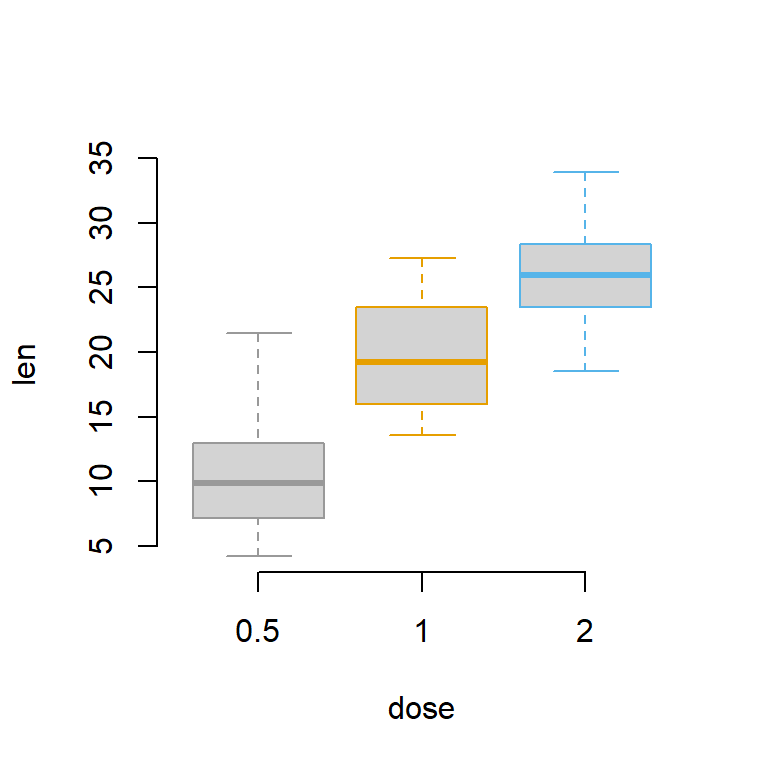
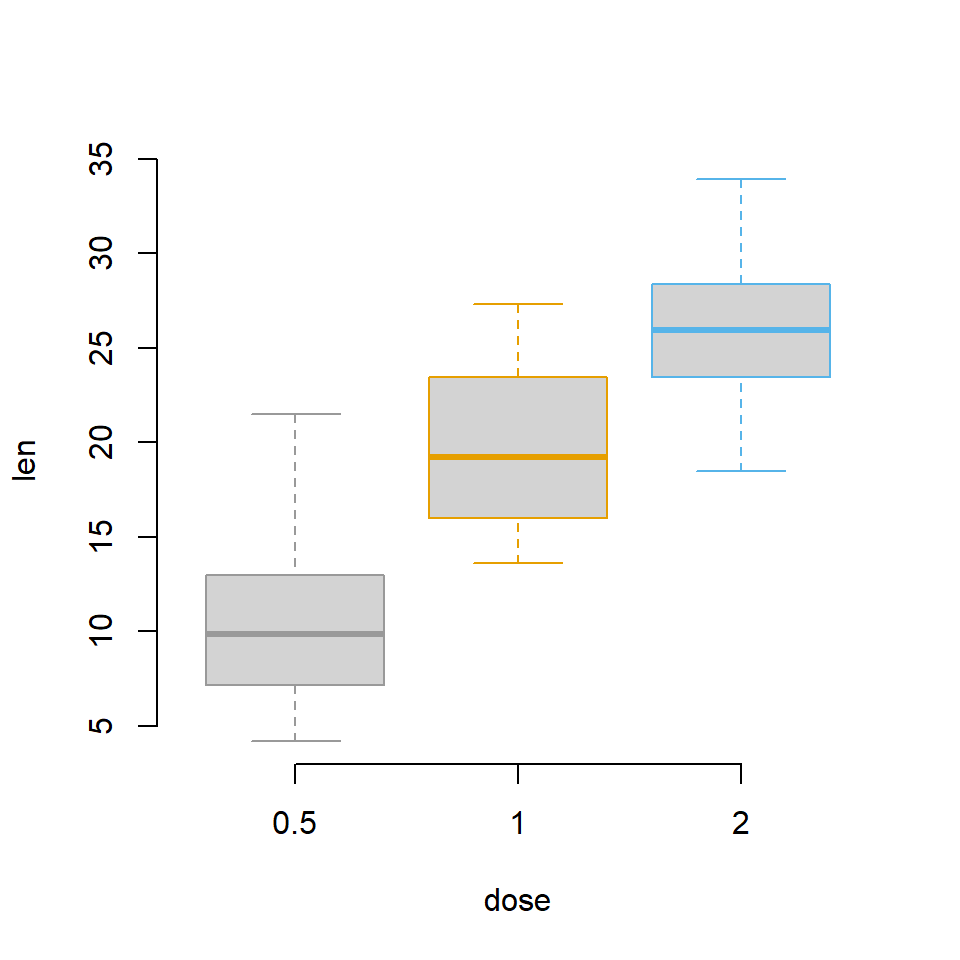
Updates.

diff --git a/docs/posts/2023-12-04-my-blog-post/index.html b/docs/posts/2023-12-04-my-blog-post/index.html
@@ -210,7 +210,7 @@ pre > code.sourceCode > span > a:first-child::before { text-decoration: underlin
 <div class="cell-output-display">
 <div class="quarto-figure quarto-figure-center">
 <figure class="figure">
-<p><img src="index_files/figure-html/unnamed-chunk-1-1.png" class="img-fluid figure-img" width="384"></p>
+<p><img src="index_files/figure-html/unnamed-chunk-1-1.png" class="img-fluid figure-img" width="480"></p>
 </figure>
 </div>
 </div>
@@ -237,7 +237,7 @@ pre > code.sourceCode > span > a:first-child::before { text-decoration: underlin
 <div class="cell-output-display">
 <div class="quarto-figure quarto-figure-center">
 <figure class="figure">
-<p><img src="index_files/figure-html/unnamed-chunk-2-1.png" class="img-fluid figure-img" width="384"></p>
+<p><img src="index_files/figure-html/unnamed-chunk-2-1.png" class="img-fluid figure-img" width="480"></p>
 </figure>
 </div>
 </div>

diff --git a/docs/blog.html b/docs/blog.html
@@ -212,7 +212,7 @@ Saïd Maanan
 </a>
 </div>
 </div>
-<div class="quarto-post image-right" data-index="1" data-categories="R" data-listing-date-sort="1701648000000" data-listing-file-modified-sort="1703699719066" data-listing-date-modified-sort="NaN" data-listing-reading-time-sort="1">
+<div class="quarto-post image-right" data-index="1" data-categories="R" data-listing-date-sort="1701648000000" data-listing-file-modified-sort="1703780820771" data-listing-date-modified-sort="NaN" data-listing-reading-time-sort="1">
 <div class="thumbnail">
 <p><a href="./posts/2023-12-04-my-blog-post/index.html"> <img src="./posts/2023-12-04-my-blog-post/nature.jpg" class="thumbnail-image"> </a></p>
 </div>

diff --git a/docs/index.html b/docs/index.html
@@ -139,10 +139,6 @@ ul.task-list li input[type="checkbox"] {
   </div>
 </header>
     <div class="about-links">
-  <a href="https://www.youtube.com/channel/UCjYP8nFHt9SoGZBqLZw-LUQ" class="about-link" rel="" target="">
-    <i class="bi bi-youtube"></i>
-     <span class="about-link-text">YouTube</span>
-  </a>
   <a href="https://github.com/smaanan" class="about-link" rel="" target="">
     <i class="bi bi-github"></i>
      <span class="about-link-text">Github</span>
